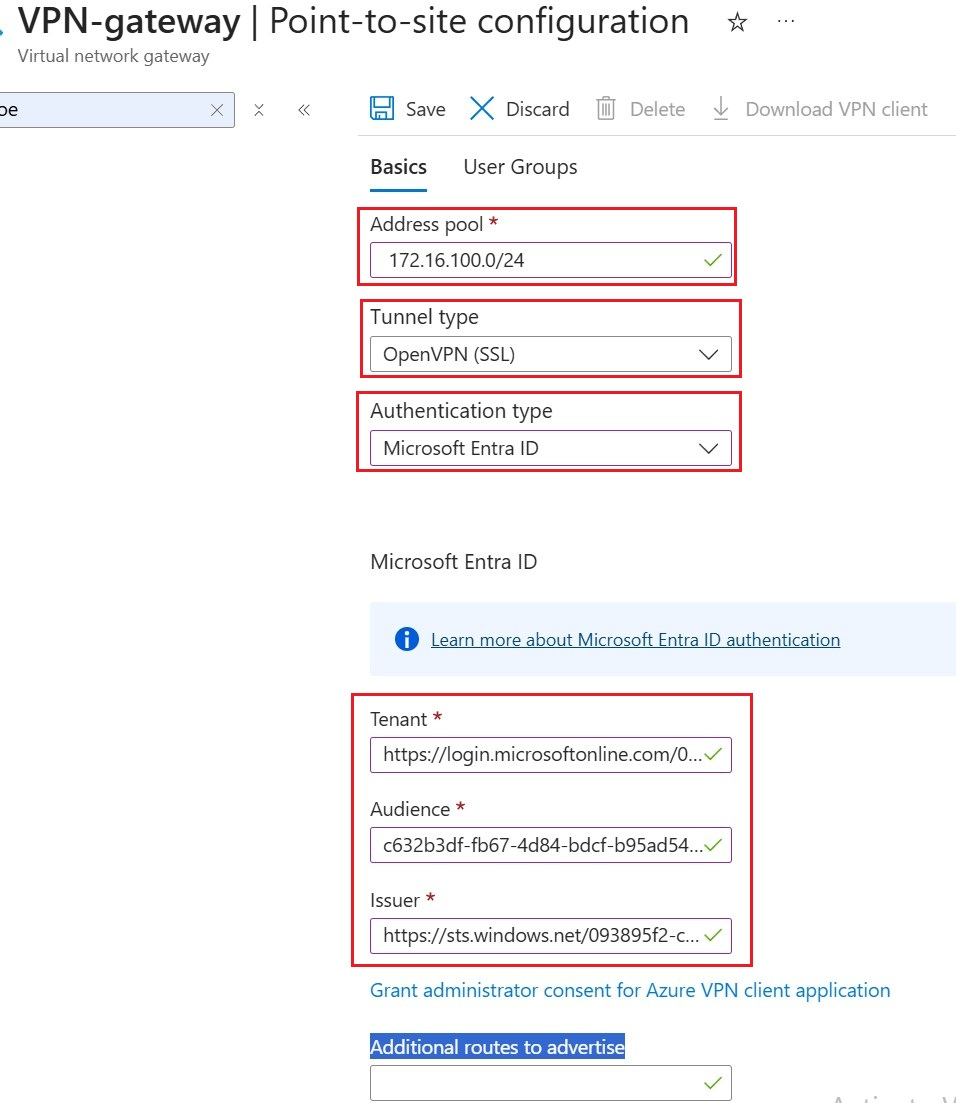
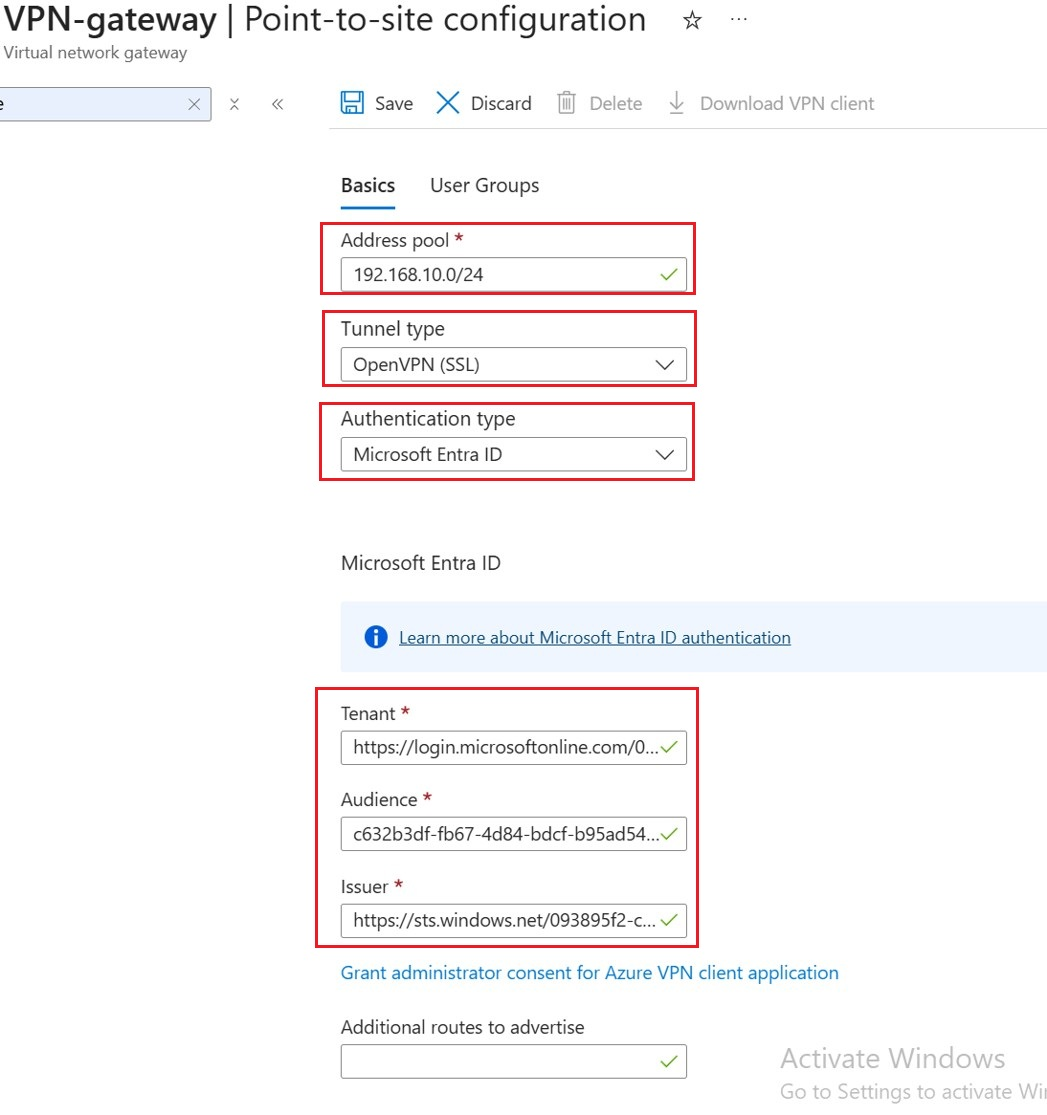
update

diff --git a/docs/05-Remote-User-Connectivity-Point-to-Site-VPN.md b/docs/05-Remote-User-Connectivity-Point-to-Site-VPN.md
@@ -55,27 +55,33 @@ Enter the Virtual network gateway we created -> Point to Site Configuration -> c
 
 > <img title="" src="../screenshots/p2s1.jpg" alt="" width="70%" data-align="center">
 
-- Address pool: 172.16. 1.0/
+- Address pool: **192.168.10.0/24**
 
 - Tunnel type: **OpenVPN**
 - Authentication type: **Microsoft Entra ID**
-- Microsoft Entra Tenant
-- Audience
-- Issuer
-
-
+- Microsoft Entra Tenant: Enter our Microsoft Entra tenant URL
+- Audience: Use the Azure VPN Client Application ID
+- Issuer: Enter our tenant issuer URL
 
 > <img title="" src="../screenshots/p2s2.jpg" alt="" width="70%" data-align="center">
 
+After input the information above, click **download VPN Client**. This client will be used on client device to make point-to-site VPN connection to Azure Vnets
+
+> <img title="" src="../screenshots/p2s3.jpg" alt="" width="70%" data-align="center">
+
 ---
+
+
 
 ## 5.3 Client Side Configuration
 
-##  Configure Azure VPN Client
+In the lab, we use Windows 11 as the Point-to-Site VPN client.
 
-Download the VPN client profile from the Azure Virtual Network Gateway.
+（1）Install **Azure VPN Client** on the Windows client
 
-Install **Azure VPN Client** on the Windows client, then:
+	Install Azure VPN Client Using the installation file downloaded in the last step 
+
+	><img title="" src="../screenshots/p2s4.jpg" alt="" width="20%" data-align="center">
 
 - Import the VPN client profile.
 - Sign in using Microsoft Entra ID.